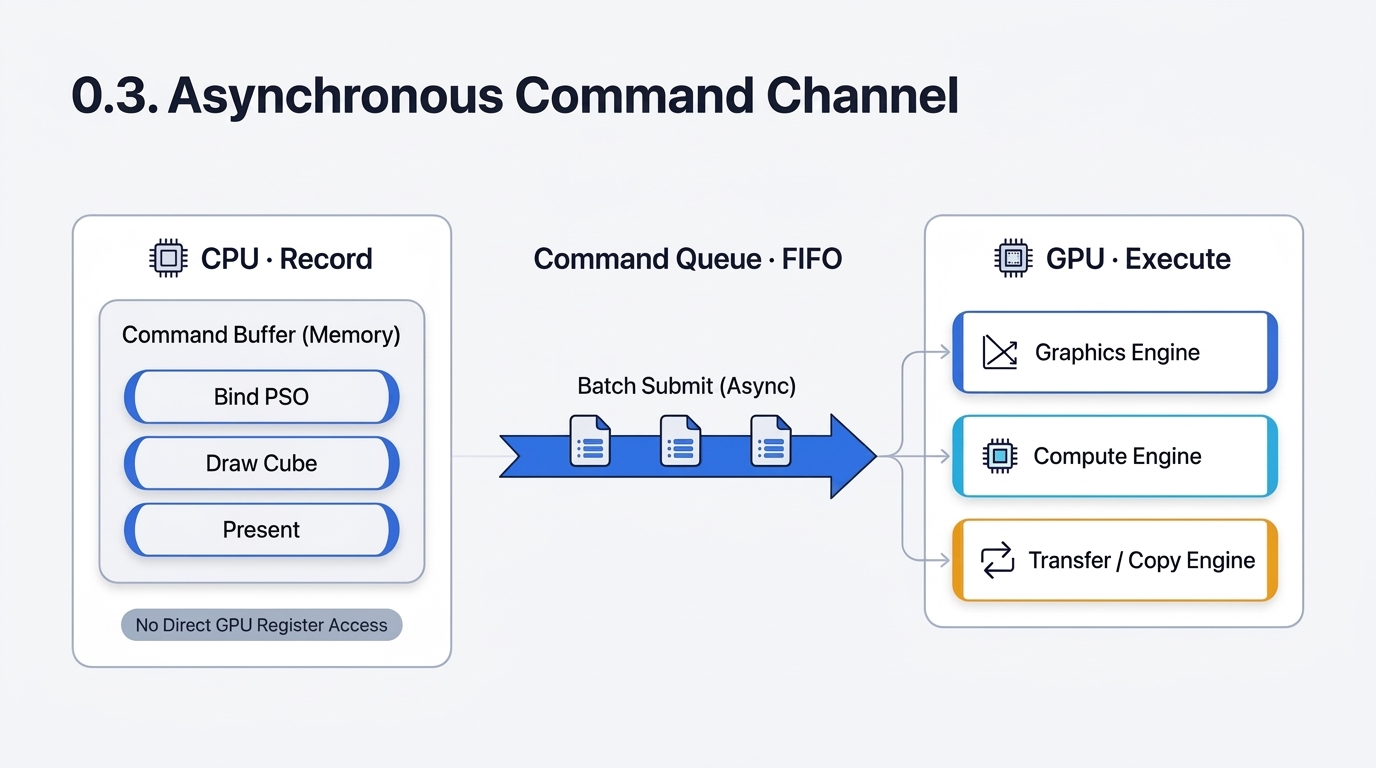
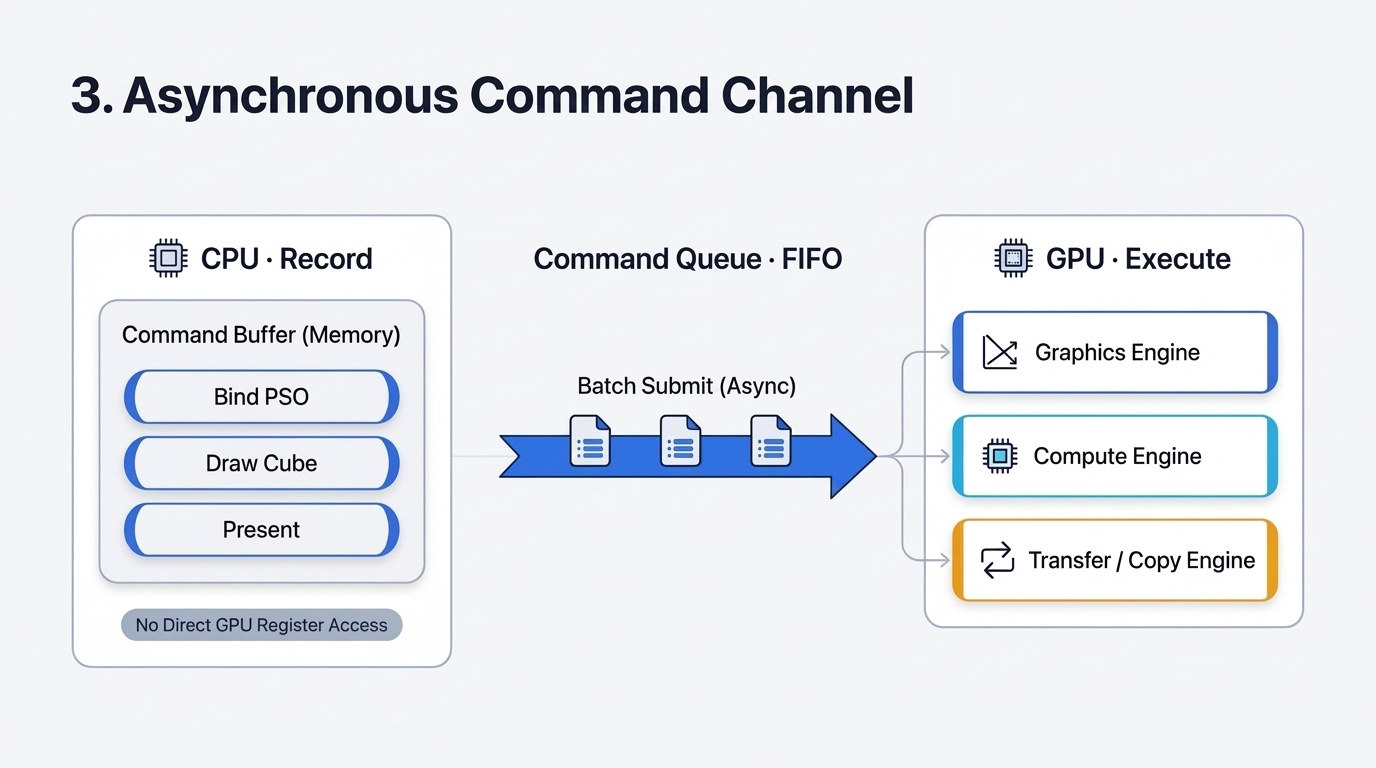
docs: renumber Stage 0 contracts and diagram titles cleanly from 0.1-0.8 to 1-8

Changed region(s): [[0.0312, 0.0938, 0.7188, 0.1562]]

diff --git a/docs/3d-rendering-semantics.md b/docs/3d-rendering-semantics.md
@@ -72,51 +72,51 @@
 
 ### 기계가 체결해야 하는 8가지 사전 계약
 
-#### 0.1. OS 프로세스·이벤트 루프·프레임 클럭 (`공유 자원 중재`)
+#### 1. OS 프로세스·이벤트 루프·프레임 클럭 (`공유 자원 중재`)
 
-![0.1. OS 이벤트 루프 및 프레임 클럭 계약](./images/03-2-1-os-event-loop.jpg)
+![1. OS 이벤트 루프 및 프레임 클럭 계약](./images/03-2-1-os-event-loop.jpg)
 
 OS로부터 앱 활성화 권한(**App Activation**), 입력 이벤트 채널(`Input`), 고정밀 시간원(`Δt`), 디스플레이 주사율(60–120 Hz)에 맞춘 프레임 콜백(**Frame Callback**)을 확보합니다. 이 계약 없이는 2단계의 시간 전이(`S(t + Δt)`)와 사용자 상호작용이 성립하지 않습니다.
 
-#### 0.2. 연산 주체 탐색 및 논리적 점유 (`이기종성 · 다양성`)
+#### 2. 연산 주체 탐색 및 논리적 점유 (`이기종성 · 다양성`)
 
-![0.2. 물리 GPU 탐색 및 논리적 장치 점유](./images/03-2-2-gpu-discovery-device.jpg)
+![2. 물리 GPU 탐색 및 논리적 장치 점유](./images/03-2-2-gpu-discovery-device.jpg)
 
 시스템 내 물리 GPU 어댑터들의 능력(정밀도, 기능 집합, 화면 출력 가능 여부)을 평가·선정한 뒤, 드라이버와 통신할 논리적 실행 세션(**Logical Device / Context**)을 획득합니다.
 
-#### 0.3. 비동기 명령 채널 개설 (`이기종성`)
+#### 3. 비동기 명령 채널 개설 (`이기종성`)
 
-![0.3. 비동기 명령 채널과 GPU 전용 엔진](./images/03-2-3-async-command-queue.jpg)
+![3. 비동기 명령 채널과 GPU 전용 엔진](./images/03-2-3-async-command-queue.jpg)
 
 CPU와 GPU는 독립 클럭으로 동작하므로 CPU가 GPU 레지스터를 직접 제어할 수 없습니다. CPU가 명령 버퍼(**Command Buffer**)에 그리기·연산 명령을 기록해 단방향 **명령 큐**(Command Queue, FIFO)로 일괄 제출하면, GPU는 그래픽스·연산·전송 전용 엔진을 통해 비동기적으로 소비합니다.
 
-#### 0.4. OS 디스플레이 표면 결합 및 출력 순환 (`공유 자원 중재`)
+#### 4. OS 디스플레이 표면 결합 및 출력 순환 (`공유 자원 중재`)
 
-![0.4. OS 디스플레이 표면 결합 및 스왑체인 순환 버퍼](./images/03-2-4-surface-swapchain.jpg)
+![4. OS 디스플레이 표면 결합 및 스왑체인 순환 버퍼](./images/03-2-4-surface-swapchain.jpg)
 
 GPU가 그린 픽셀 배열은 메모리 조각일 뿐이며 물리 화면의 소유권은 **OS 윈도우 컴포지터**(Window Compositor)에 있습니다. 창(Window)과 GPU가 공유할 표면(**Shared Surface**)을 연결하고, 해상도·색 공간·비트 깊이·순환 버퍼(**Swapchain Ring**) 수·주사 동기화(VSync) 정책을 합의합니다. 창 크기가 바뀌면 이 계약은 즉시 재협상(Renegotiation) 대상이 됩니다.
 
-#### 0.5. CPU↔GPU 데이터 ABI 계약 (`이기종성`)
+#### 5. CPU↔GPU 데이터 ABI 계약 (`이기종성`)
 
-![0.5. CPU와 GPU 간 데이터 ABI 공유 규격표(정렬·패딩·오프셋·스트라이드)](./images/03-2-5-data-abi-contract.svg)
+![5. CPU와 GPU 간 데이터 ABI 공유 규격표(정렬·패딩·오프셋·스트라이드)](./images/03-2-5-data-abi-contract.svg)
 
 서로 다른 컴파일러로 빌드된 두 프로세서가 같은 바이트 열을 같은 의미로 해석해야 합니다. 메모리에 기록되면 변수 이름이 모두 사라지므로, 구조체 정렬(Alignment), 패딩(Padding), 정점 속성 오프셋(Offset)과 스트라이드(Stride) 등 바이너리 인터페이스를 양쪽이 엄격히 일치시켜야 합니다.
 
-#### 0.6. 메모리 토폴로지 정렬 및 자원 실체화 (`이기종성 · 비용 비대칭`)
+#### 6. 메모리 토폴로지 정렬 및 자원 실체화 (`이기종성 · 비용 비대칭`)
 
-![0.6. 분리형 VRAM과 통합 메모리 토폴로지 비교](./images/03-2-6-memory-topology.jpg)
+![6. 분리형 VRAM과 통합 메모리 토폴로지 비교](./images/03-2-6-memory-topology.jpg)
 
 정점·인덱스·프레임 상수·깊이 버퍼를 하드웨어 메모리 특성에 맞게 할당합니다. 분리된 VRAM(PCIe 경유) 환경에서는 시스템 RAM의 **스테이징 버퍼**(Staging Buffer)를 거치는 명시적 복사 계약이 필요하고, Apple Silicon 같은 **통합 메모리**(Unified Memory) 환경에서는 Zero-Copy 공유 저장소로 단순화되는 등 토폴로지에 따라 계약 형태가 달라집니다.
 
-#### 0.7. 불변 실행 상태 사전 컴파일 (`비용 비대칭 · 이기종성`)
+#### 7. 불변 실행 상태 사전 컴파일 (`비용 비대칭 · 이기종성`)
 
-![0.7. 불변 파이프라인 상태(PSO) 사전 컴파일과 동적 상태 분리](./images/03-2-7-immutable-pso.svg)
+![7. 불변 파이프라인 상태(PSO) 사전 컴파일과 동적 상태 분리](./images/03-2-7-immutable-pso.svg)
 
 셰이더 코드를 대상 GPU의 기계어(ISA)로 번역하고, 하드웨어가 셰이더 마이크로코드와 결합해 고정해야 하는 상태(출력 포맷, 블렌딩, 정점 페치 등)를 불변 파이프라인 객체(**PSO**)로 사전 확정합니다. 반면 뷰포트·시저처럼 저렴하게 바꿀 수 있는 상태는 동적 상태로 분리하며, 컬링 모드·와인딩 등 어느 상태까지 동적으로 허용하는지는 API마다 경계가 다릅니다.
 
-#### 0.8. 동기화 원시체 구축 및 위험 추적 경계 (`이기종성 · 비용 비대칭`)
+#### 8. 동기화 원시체 구축 및 위험 추적 경계 (`이기종성 · 비용 비대칭`)
 
-![0.8. CPU-GPU 동기화 원시체와 GPU 내부 위험 추적 경계](./images/03-2-8-sync-hazard-tracking.svg)
+![8. CPU-GPU 동기화 원시체와 GPU 내부 위험 추적 경계](./images/03-2-8-sync-hazard-tracking.svg)
 
 비동기 CPU↔GPU 간 완료 대기와 자원 재사용을 제어할 동기화 객체(펜스, 세마포어)를 사전 생성합니다. 또한 GPU 내부 파이프라인 단계 간 메모리 의존성(배리어, 레이아웃 전환)은 매 프레임 명령에 기록되며, 이 위험 추적(**Hazard Tracking**)을 드라이버가 자동화할지 앱이 명시할지가 API 설계의 핵심 경계가 됩니다.
 
